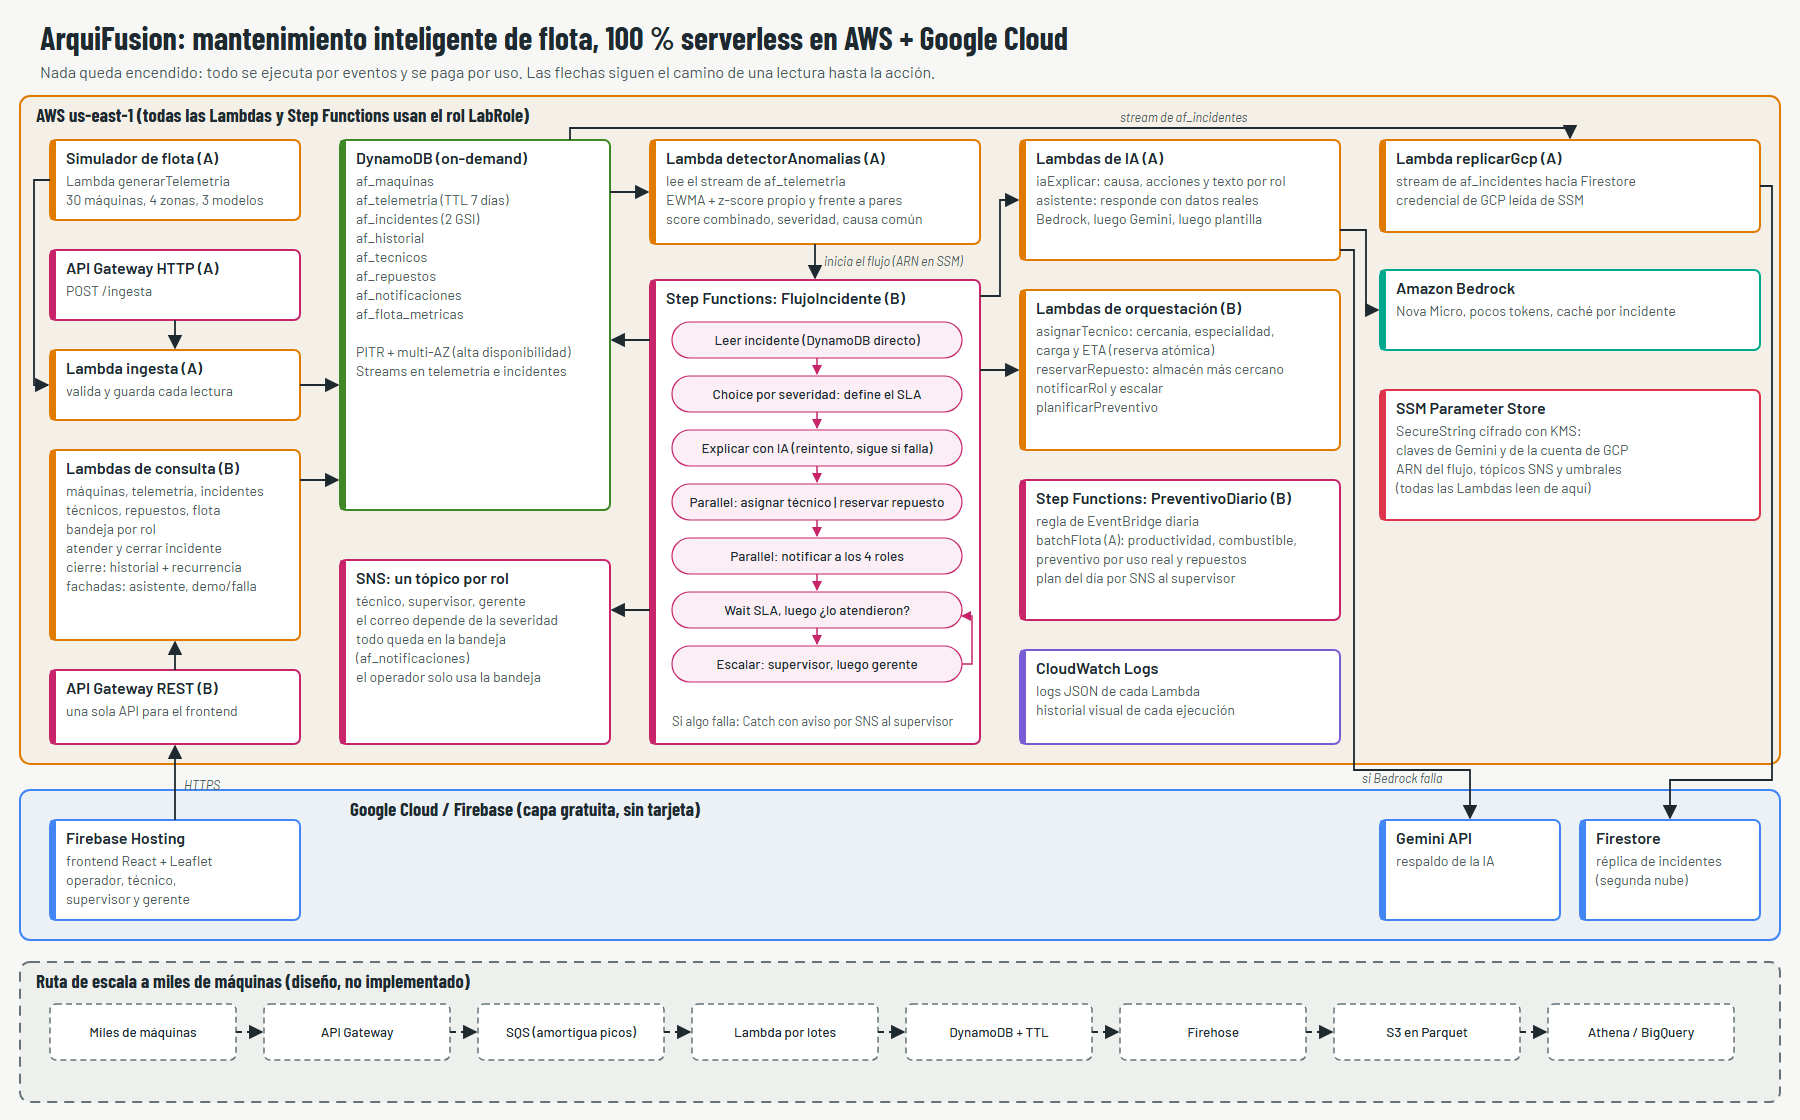
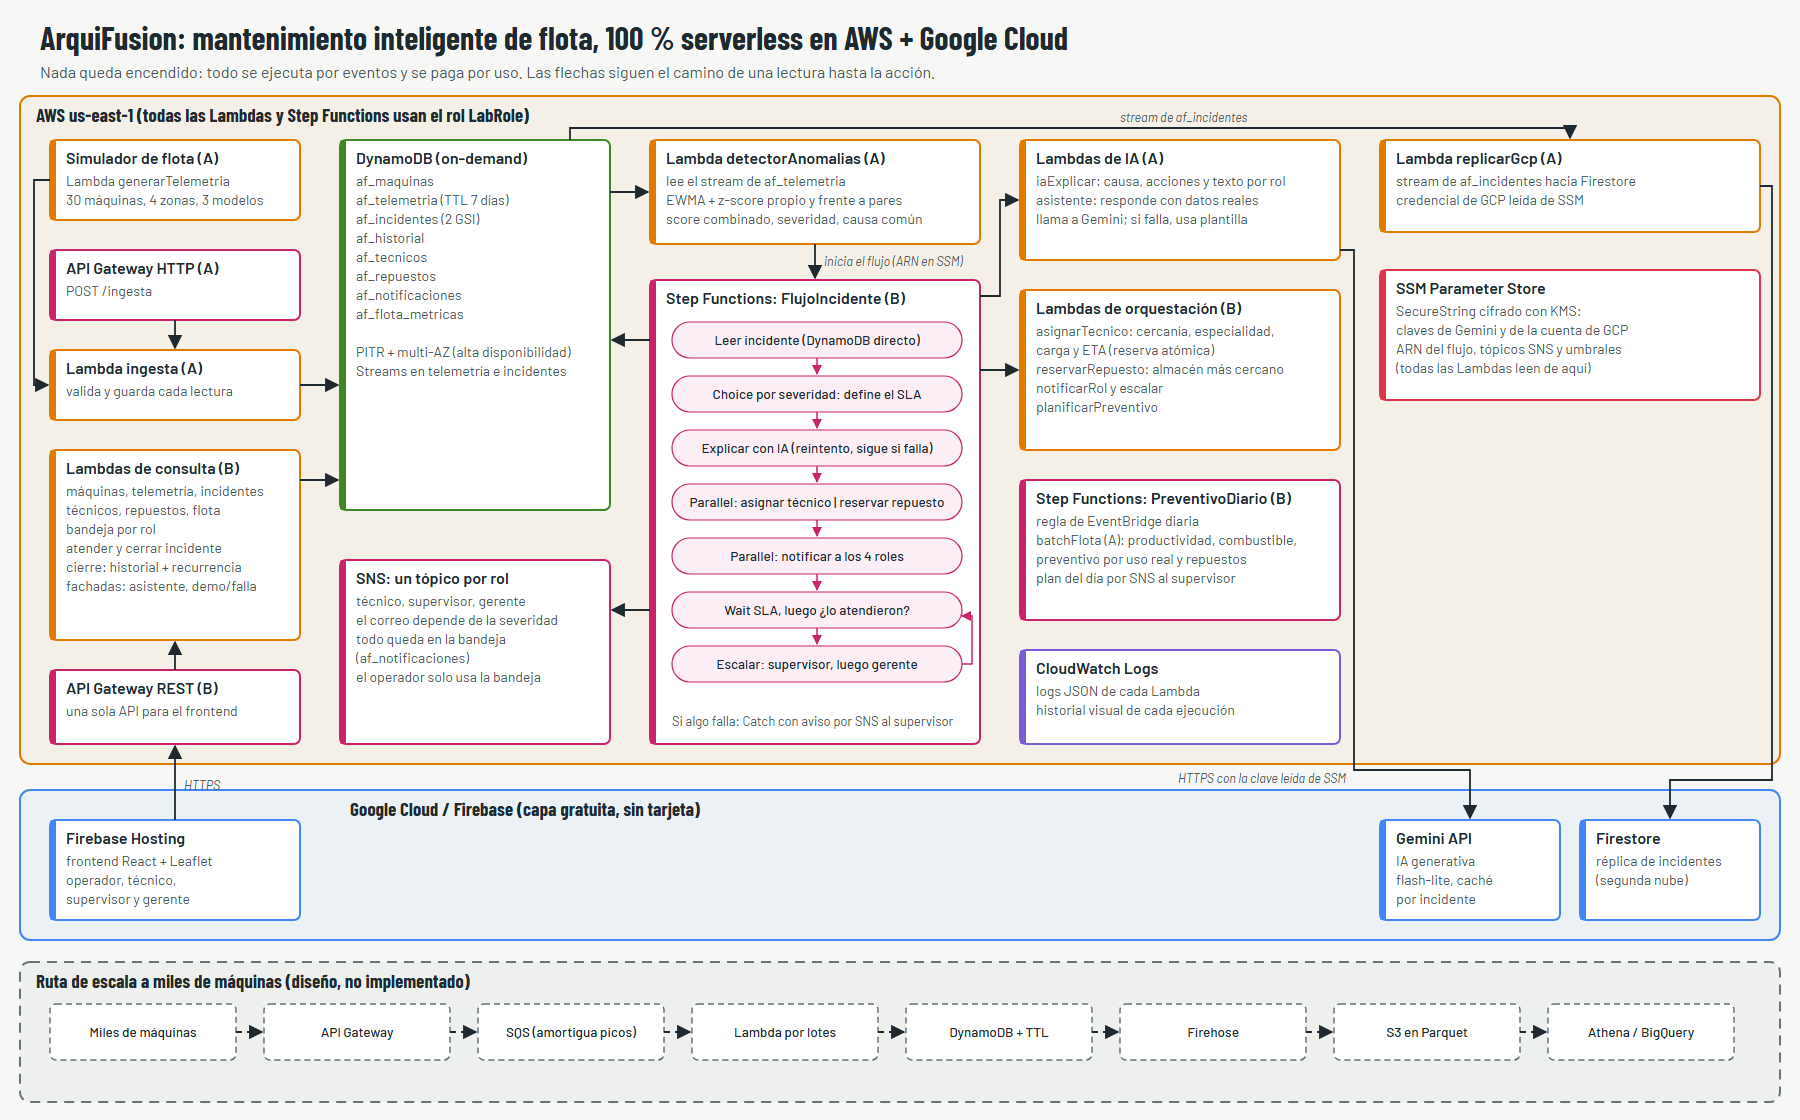
IA con Gemini: se quita Bedrock del diagrama, README y frontend
Amazon Bedrock no está habilitado en el AWS Academy Learner Lab: devuelve
AccessDenied tanto con el rol de la CLI como con LabRole desde Lambda.
La IA queda en Gemini (Google) con el modelo gemini-3.5-flash-lite, que
responde en 1 a 2 s; los modelos con razonamiento tardaban más de 30 s.

- docs/: el diagrama ya no muestra Bedrock; las Lambdas de IA llaman a
  Gemini con la clave leída de SSM.
- README: el despliegue configura Gemini en SSM en lugar de probar
  Bedrock, y explica por qué no se usa.
- frontend/ y plataforma/: etiquetas y comentarios actualizados.

diff --git a/frontend/src/componentes/VistaAsistente.jsx b/frontend/src/componentes/VistaAsistente.jsx
@@ -6,7 +6,7 @@ const SUGERENCIAS = [
   '¿Hay alguna zona con varias máquinas fallando a la vez?',
   '¿Qué máquinas tienen el mantenimiento vencido?',
 ]
-const FUENTE = { bedrock: 'Amazon Bedrock', gemini: 'Gemini (respaldo)', plantilla: 'respuesta de plantilla' }
+const FUENTE = { gemini: 'Gemini (Google)', plantilla: 'respuesta de plantilla (IA no disponible)' }
 const LIMITE = 10                                   // tope de preguntas por sesión: cuida el crédito de IA
 
 export default function VistaAsistente() {

diff --git a/frontend/src/componentes/DetalleIncidente.jsx b/frontend/src/componentes/DetalleIncidente.jsx
@@ -14,7 +14,7 @@ const EVENTOS = {
   en_atencion: 'Técnico en atención',
   resuelto: 'Resuelto',
 }
-const FUENTE_IA = { bedrock: 'Amazon Bedrock', gemini: 'Gemini (respaldo)', plantilla: 'plantilla fija (IA no disponible)' }
+const FUENTE_IA = { gemini: 'Gemini (Google)', plantilla: 'plantilla fija (IA no disponible)' }
 
 export default function DetalleIncidente({ id, onVolver, onMaquina, onCambio }) {
   const { datos: inc, error, recargar } = usePolling(`/incidentes/${id}`, 5000)

diff --git a/README.md b/README.md
@@ -1,13 +1,13 @@
 # ArquiFusion: mantenimiento inteligente de flota
 
-Plataforma 100 % serverless que convierte la telemetría de maquinaria pesada en acciones: detecta anomalías combinadas, abre el incidente, lo explica con IA, asigna al técnico más adecuado, reserva el repuesto, avisa a cada rol con su propio mensaje y escala si nadie lo atiende. Corre en **AWS** (Lambda, API Gateway, DynamoDB, Step Functions, EventBridge, SNS, SSM, Bedrock) y **Google Cloud** (Firebase Hosting, Firestore, Gemini).
+Plataforma 100 % serverless que convierte la telemetría de maquinaria pesada en acciones: detecta anomalías combinadas, abre el incidente, lo explica con IA, asigna al técnico más adecuado, reserva el repuesto, avisa a cada rol con su propio mensaje y escala si nadie lo atiende. Corre en **AWS** (Lambda, API Gateway, DynamoDB, Step Functions, EventBridge, SNS, SSM) y **Google Cloud** (Gemini para la IA, Firestore y Firebase Hosting).
 
 ![Arquitectura](docs/arquitectura.png)
 
 | Carpeta | Contenido |
 |---|---|
 | `infra-base/` | Tablas `af_*` (PITR, streams, TTL), tópicos SNS por rol y parámetros SSM |
-| `datos-ia/` | Simulador, ingesta, detector de anomalías, IA (Bedrock → Gemini → plantilla), analítica de flota, réplica a Firestore |
+| `datos-ia/` | Simulador, ingesta, detector de anomalías, IA generativa con Gemini (si falla, plantilla fija), analítica de flota, réplica a Firestore |
 | `plataforma/` | Step Functions `FlujoIncidente` y `PreventivoDiario`, Lambdas de orquestación y API REST |
 | `frontend/` | React + Vite + Leaflet, publicado en Firebase Hosting |
 
@@ -17,7 +17,9 @@ Requisitos: Node 20+, Python 3.12+, AWS CLI v2 con las credenciales del Learner 
 
 ```bash
 cd infra-base && npx serverless@3 deploy --stage dev                 # 1. datos y parámetros
-cd ../datos-ia && python scripts/probar_bedrock.py                   # 2. elige el modelo de Bedrock
+cd ../datos-ia                                                      # 2. IA y segunda nube (valores en SSM)
+aws ssm put-parameter --name /arquifusion/ia_proveedores --type String --value gemini --overwrite
+aws ssm put-parameter --name /arquifusion/gemini_model --type String --value gemini-3.5-flash-lite --overwrite
 aws ssm put-parameter --name /arquifusion/gemini_api_key --type SecureString --value "<clave>" --overwrite
 aws ssm put-parameter --name /arquifusion/gcp_service_account --type SecureString --value file://clave.json --overwrite
 ./build_layer.sh && npx serverless@3 deploy --stage dev && python scripts/seed.py   # 3. parte de datos e IA
@@ -36,5 +38,6 @@ npm install && npx firebase-tools login && npx firebase-tools use --add && npm r
 ## Costo y seguridad
 
 - Nada queda encendido. El simulador y la regla diaria vienen apagados (`simuladorActivo`, `preventivoEstado`). DynamoDB es on-demand, la telemetría expira a los 7 días y los `Wait` de Step Functions no cobran.
+- La IA usa Gemini: Amazon Bedrock no está habilitado en el AWS Academy Learner Lab (`AccessDenied` también con `LabRole`). Se eligió un modelo *lite* porque los modelos con razonamiento tardaban más de 30 s.
 - Secretos y variables globales en **SSM Parameter Store** (SecureString con KMS). El repositorio no contiene claves: `clave.json` y `.env*` están en `.gitignore`.
 - Pruebas locales sin AWS: `python plataforma/tests/test_core.py`, `python datos-ia/tests/test_core.py`.
